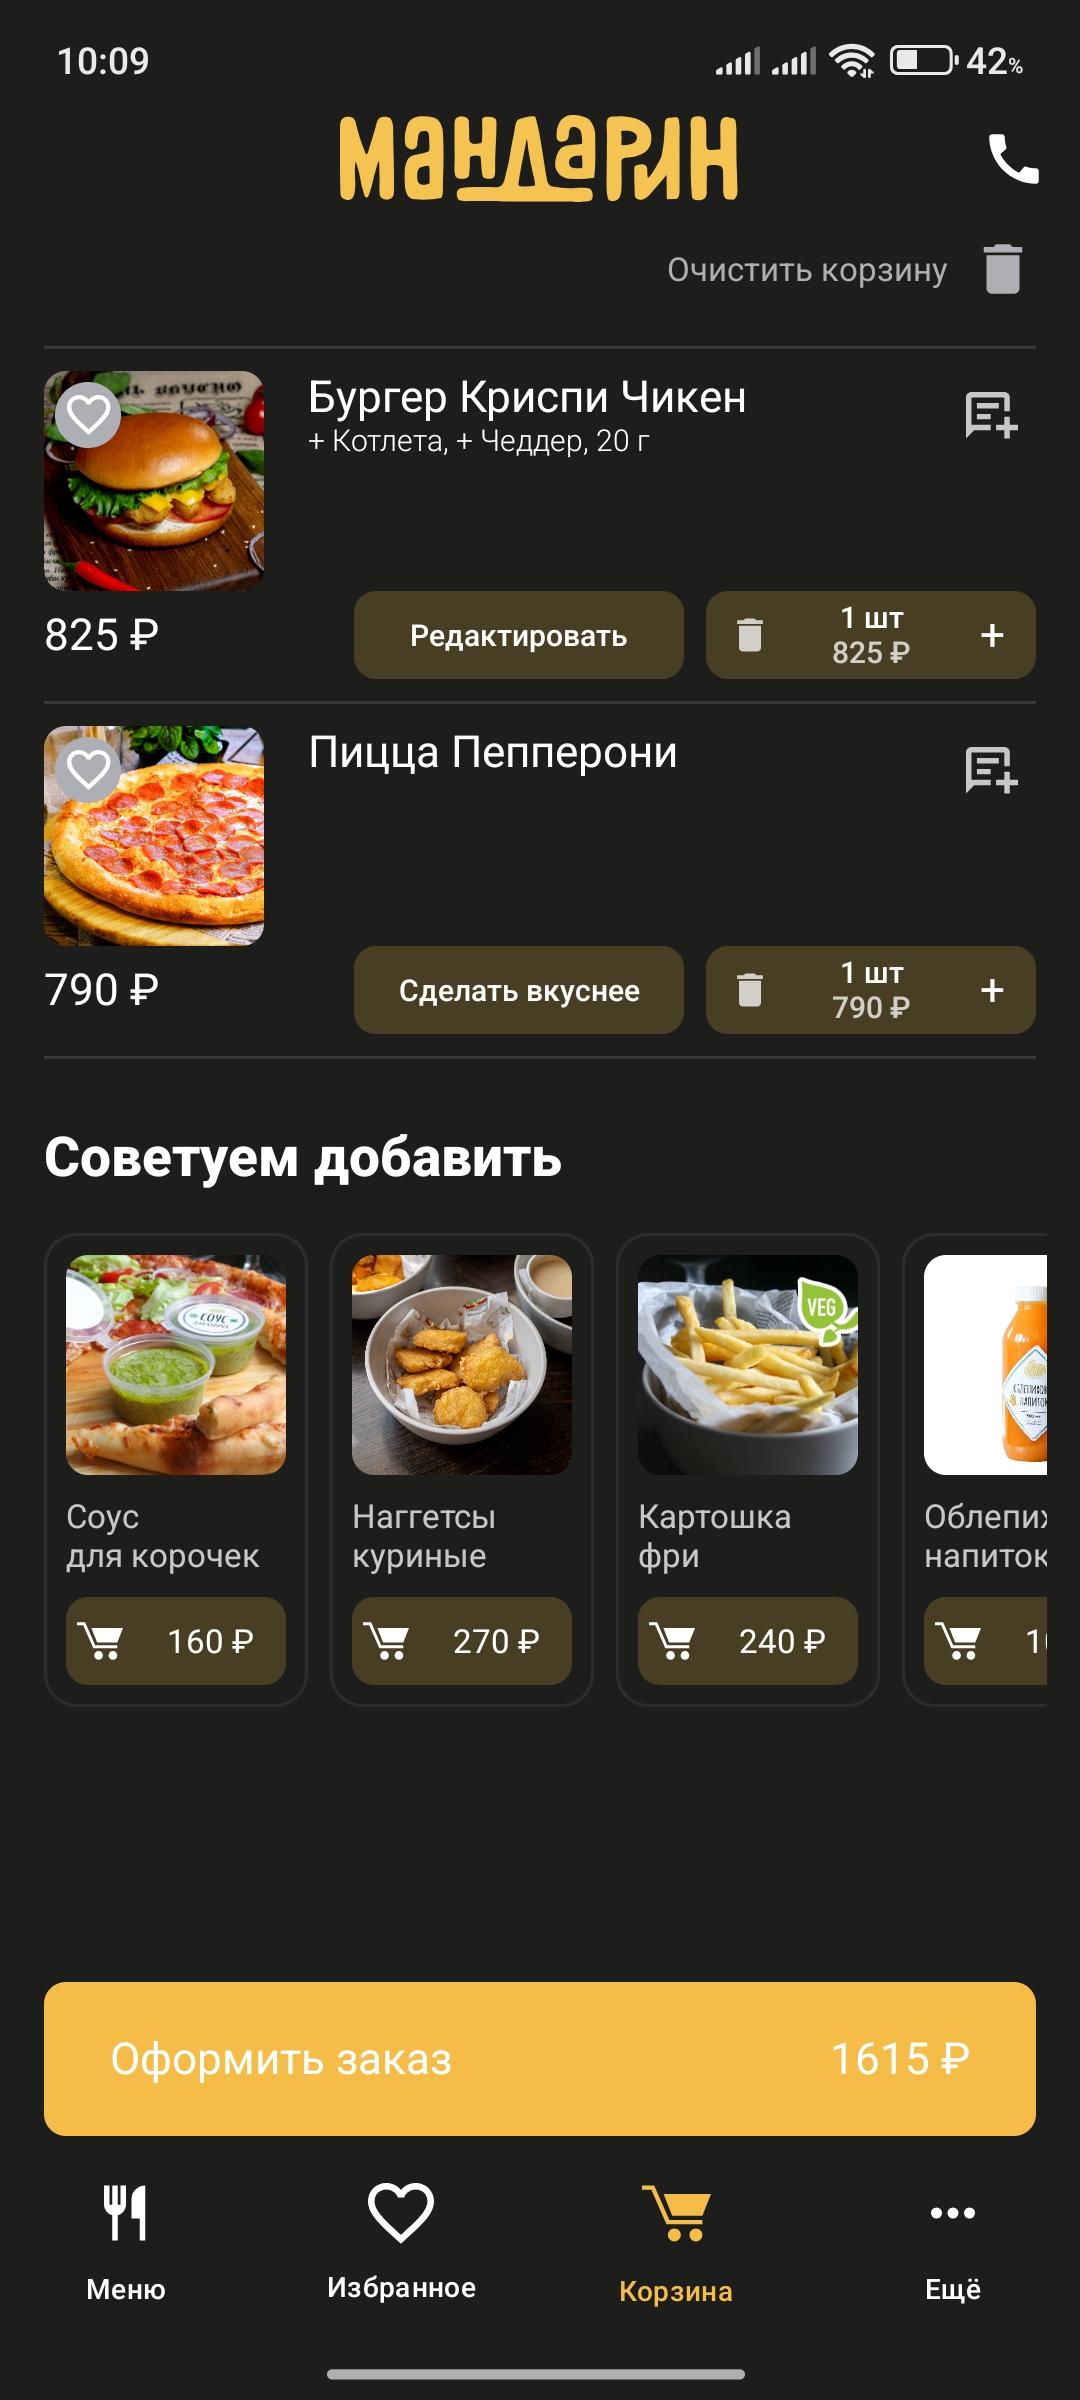
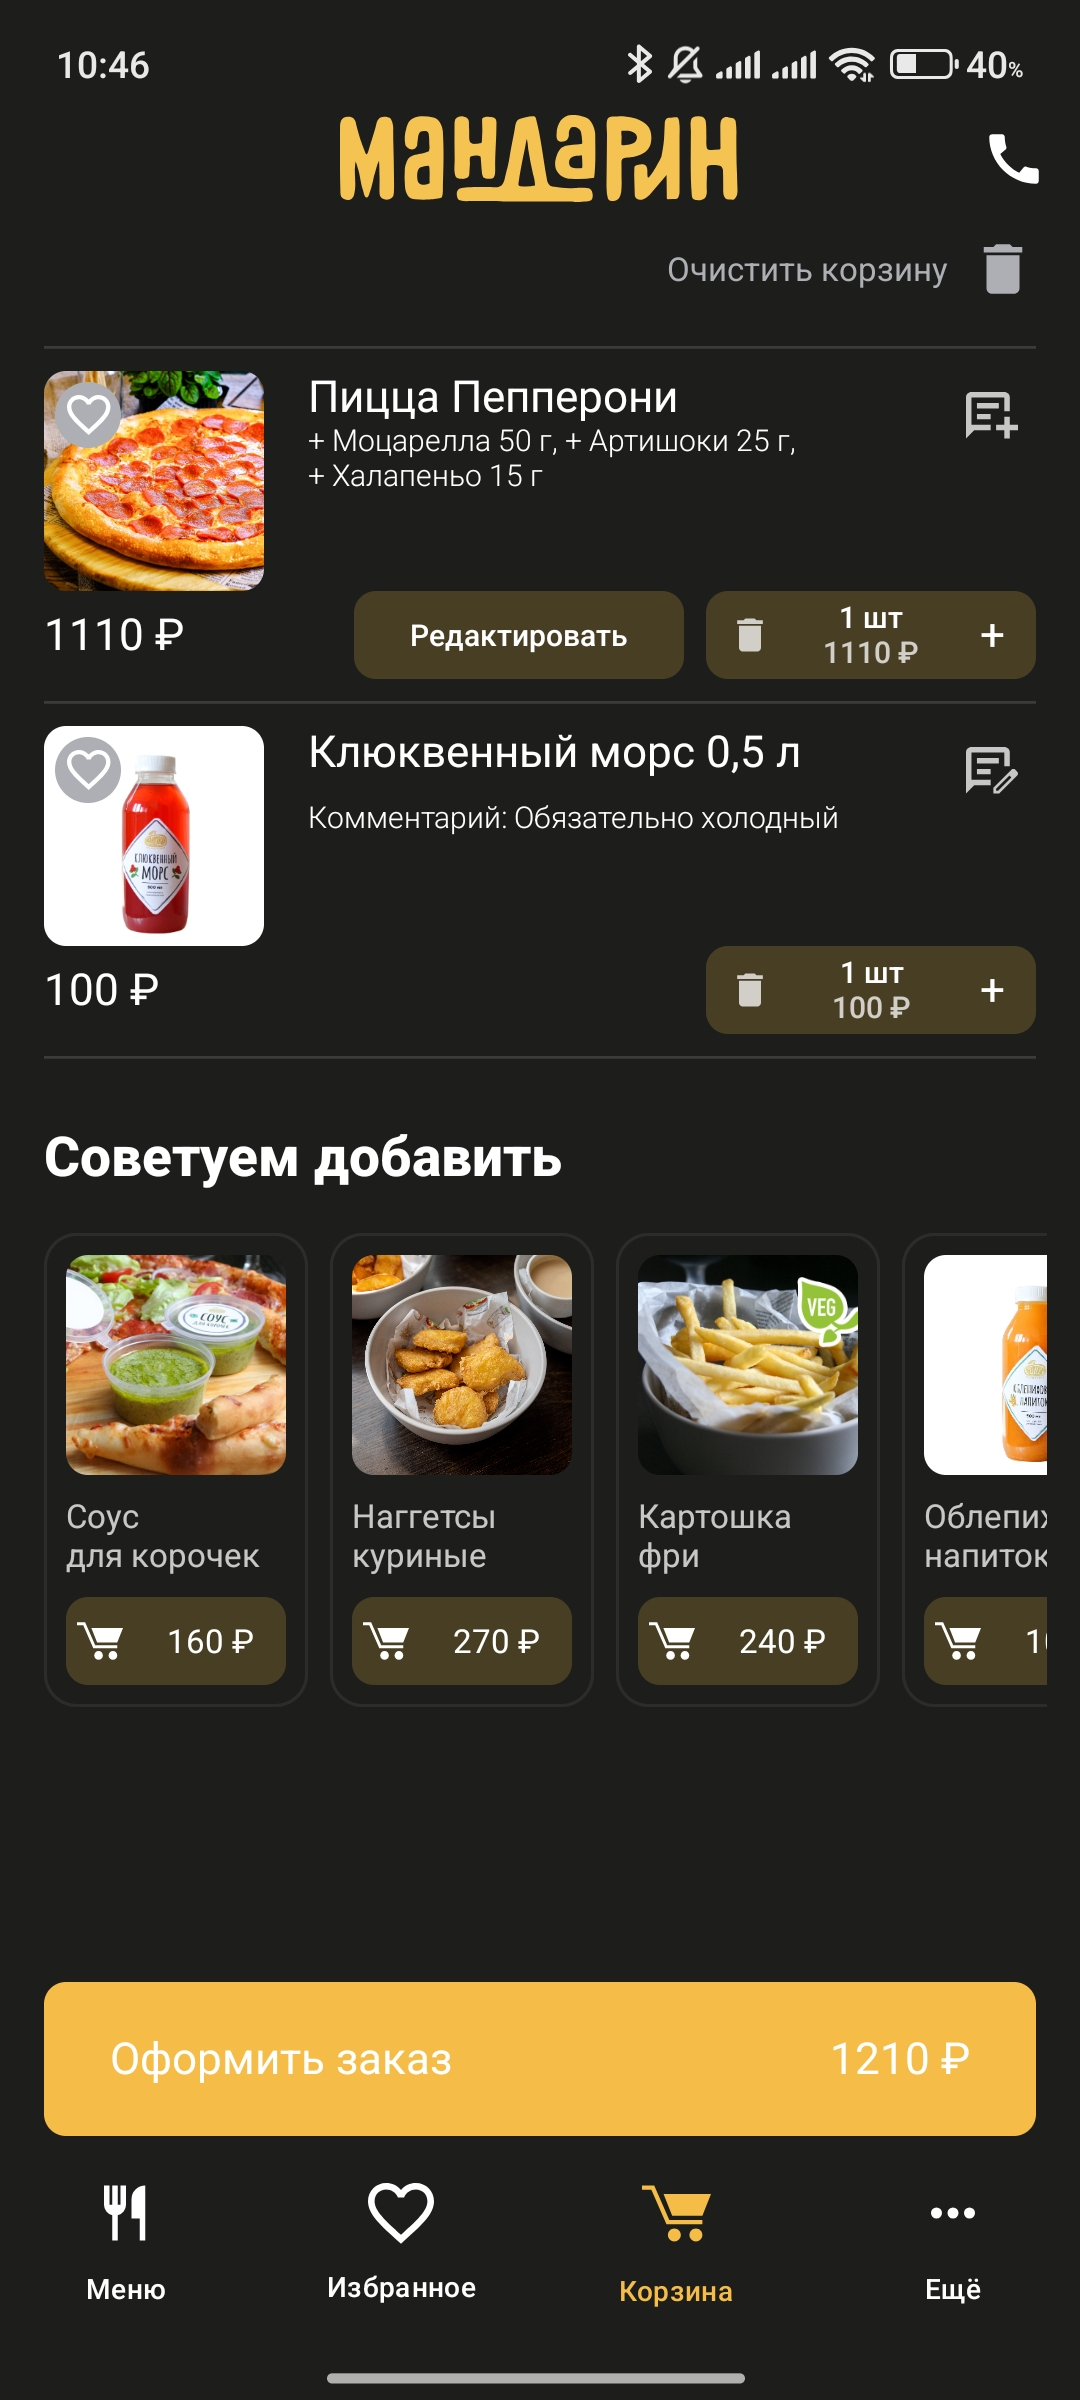
Добавлен блок рекомендаций для суши/роллов/кимпабов

diff --git a/app/src/main/java/com/mandarinkafe/mandarin/features/cart/domain/impl/GetRecommendsUseCaseImpl.kt b/app/src/main/java/com/mandarinkafe/mandarin/features/cart/domain/impl/GetRecommendsUseCaseImpl.kt
@@ -5,6 +5,7 @@ import com.mandarinkafe.mandarin.core.domain.models.Meal
 import com.mandarinkafe.mandarin.features.cart.domain.api.RecommendsSchemaRepository
 import com.mandarinkafe.mandarin.features.cart.domain.model.RecommendsSchemaRule
 import com.mandarinkafe.mandarin.features.cart.domain.usecase.GetRecommendsUseCase
+import com.mandarinkafe.mandarin.features.cart.presentation.viewmodel.Recommends
 import com.mandarinkafe.mandarin.util.Resource
 import com.mandarinkafe.mandarin.util.Resource.ErrorEmptyData
 import com.mandarinkafe.mandarin.util.Resource.ErrorNoInternet
@@ -18,7 +19,7 @@ class GetRecommendsUseCaseImpl(
     private val schemaRepository: RecommendsSchemaRepository,
     private val menuCache: MenuCache,
 ) : GetRecommendsUseCase {
-    override suspend fun invoke(cartItems: Set<Meal>): Resource<List<Meal>> {
+    override suspend fun invoke(cartItems: Set<Meal>): Resource<Recommends> {
         val schemaResult = schemaRepository.getRecommendsSchema()
 
         return when (schemaResult) {
@@ -31,10 +32,13 @@ class GetRecommendsUseCaseImpl(
                 val rules = schemaResult.data ?: return ErrorEmptyData()
 
                 val cartItemsWithNorm = normalizeCartItems(cartItems)
+                // ids элементов в корзине
+                val inCartIds = cartItems.map { it.id }.toSet()
 
                 val (globalRules, normalRules) = rules.partition { it.sourceName == SOURCE_ALL }
-
                 val matchingRules = filterRules(normalRules, cartItemsWithNorm)
+
+                val separateRules = rules.filter { it.isSeparate }
 
                 // Сначала обычные, потом глобальные
                 val recommendedSkus = (matchingRules + globalRules)
@@ -46,14 +50,24 @@ class GetRecommendsUseCaseImpl(
                     .flatMap { sku -> menuCache.getMealsBySku(sku) }
                     .distinctBy { it.id }
 
-                // ids элементов в корзине
-                val inCartIds = cartItems.map { it.id }.toSet()
+                val matchingSeparateRules = filterRules(separateRules, cartItemsWithNorm)
 
-                // фильтруем те блюда, что уже в корзине
-                val filtered = meals
+                val separateSkus = matchingSeparateRules
+                    .flatMap { it.recommendedSku }
+                    .map { it.trim() }
+                    .filter { it.isNotEmpty() }
+
+                val separateMeals = separateSkus
+                    .flatMap { sku -> menuCache.getMealsBySku(sku) }
+                    .distinctBy { it.id }
                     .filterNot { it.id in inCartIds }
 
-                Success(filtered)
+                // фильтруем те блюда, что уже в корзине и что попали в отдельные
+                val filtered = meals
+                    .filterNot { it.id in inCartIds }
+                    .filterNot { meal -> separateMeals.any { it.id == meal.id } }
+
+                Success(Recommends(mainRecommends = filtered, separateRecommends = separateMeals))
             }
         }
     }

diff --git a/app/src/main/java/com/mandarinkafe/mandarin/features/cart/presentation/screen/CartContentScreen.kt b/app/src/main/java/com/mandarinkafe/mandarin/features/cart/presentation/screen/CartContentScreen.kt
@@ -32,6 +32,7 @@ import com.mandarinkafe.mandarin.features.cart.presentation.components.ProcessOr
 import com.mandarinkafe.mandarin.features.cart.presentation.viewmodel.CartContract.CartState
 import com.mandarinkafe.mandarin.util.Constants.ANIMATION_DURATION_FAST
 import com.mandarinkafe.mandarin.util.presentation.ui.components.MyCircularProgressIndicator
+import com.mandarinkafe.mandarin.util.presentation.ui.components.TooltipText
 
 @Composable
 fun CartContentScreen(
@@ -102,7 +103,7 @@ fun CartContentScreen(
                 }
 
                 // Заголовок рекомендаций
-                if (state.recommends.isNotEmpty()) {
+                if (state.recommends.mainRecommends.isNotEmpty()) {
                     item {
                         Text(
                             modifier = Modifier.padding(
@@ -130,12 +131,29 @@ fun CartContentScreen(
                         }
                     } else {
                         CartRecommendsList(
-                            recommendsList = state.recommends,
+                            recommendsList = state.recommends.mainRecommends,
                             modifier = Modifier.padding(bottom = Dimens.MarginStandard16),
                             onAddToCart = { onAddToCart(it.toCartItem()) },
                             onMealDetailsClick = { onMealDetailsClick(it.toCartItem()) },
                         )
                     }
+                }
+
+                // Сообщение про соевый соус и тд
+                if (state.recommends.separateRecommends.isNotEmpty()) {
+                    item {
+                        TooltipText(
+                            modifier = Modifier.padding(Dimens.MarginSmall8),
+                            textRes = R.string.sushi_soy_souse_tooltip
+                        )
+                        CartRecommendsList(
+                            recommendsList = state.recommends.separateRecommends,
+                            modifier = Modifier.padding(bottom = Dimens.MarginStandard16),
+                            onAddToCart = { onAddToCart(it.toCartItem()) },
+                            onMealDetailsClick = { onMealDetailsClick(it.toCartItem()) },
+                        )
+                    }
+
                 }
 
                 // Отступ для кнопки "Оформить заказ"

diff --git a/app/src/main/java/com/mandarinkafe/mandarin/features/cart/data/impl/RecommendsSchemaRepositoryImpl.kt b/app/src/main/java/com/mandarinkafe/mandarin/features/cart/data/impl/RecommendsSchemaRepositoryImpl.kt
@@ -38,9 +38,10 @@ class RecommendsSchemaRepositoryImpl(private val networkClient: GoogleDocsNetwor
     private fun parseCsv(csv: String): List<RecommendsSchemaDto> {
         return csv
             .lineSequence()
-            .drop(1) // пропустить заголовок
+            .drop(1) // пропускаем заголовок
             .mapNotNull { line ->
                 val parts = line.split(",")
+
                 if (parts.size < CSV_COLUMNS_NUMBER) return@mapNotNull null
 
                 val sourceName = parts[0].takeIf { it.isNotBlank() }
@@ -57,21 +58,23 @@ class RecommendsSchemaRepositoryImpl(private val networkClient: GoogleDocsNetwor
                     ?.map { it.trim() }
                     ?.filter { it.isNotEmpty() }
 
-                // Не создаём DTO, если вообще нет исходных данных или сопутствующих товаров
+                val isSeparate = parts[3].trim().equals("TRUE", ignoreCase = true)
+
+                // Не создаём DTO, если нет исходного или нет рекомендуемых товаров
                 if (sourceName == null) return@mapNotNull null
                 if (recommendedSku.isNullOrEmpty()) return@mapNotNull null
 
                 RecommendsSchemaDto(
                     sourceName = sourceName,
                     excludeSku = excludeSku,
-                    recommendedSku = recommendedSku
+                    recommendedSku = recommendedSku,
+                    isSeparate = isSeparate
                 )
             }
             .toList()
-
     }
 
     companion object {
-        private const val CSV_COLUMNS_NUMBER = 3
+        private const val CSV_COLUMNS_NUMBER = 4
     }
 }

diff --git a/app/src/main/java/com/mandarinkafe/mandarin/features/cart/presentation/viewmodel/CartContract.kt b/app/src/main/java/com/mandarinkafe/mandarin/features/cart/presentation/viewmodel/CartContract.kt
@@ -16,6 +16,7 @@ sealed interface CartContract {
             val item: CartItem? = null,
             val customizedMeal: CustomizedMeal? = null
         ) : CartEvent
+
         data class AddCommentToItem(val item: CartItem, val comment: String) : CartEvent
         data class UpdateMealInCart(val newItem: CartItem) : CartEvent
         data class OnReduceWithDelay(val item: CartItem) : CartEvent
@@ -24,6 +25,7 @@ sealed interface CartContract {
             val customizedMeal: CustomizedMeal? = null,
             val meal: Meal? = null
         ) : CartEvent
+
         data object ForceRefresh : CartEvent
 
         // Очистка корзины
@@ -46,7 +48,7 @@ sealed interface CartContract {
         val error: UiError? = null,
         val cartItems: List<CartItem> = emptyList(),
         val favoritesItems: Set<CustomizedMeal> = emptySet(),
-        val recommends: List<Meal> = emptyList(),
+        val recommends: Recommends = Recommends(),
         val recommendsAreLoading: Boolean = true,
         val pendingDeletionItems: List<String> = emptyList(),
         val inProgressItems: Set<String> = emptySet(),

diff --git a/app/src/main/java/com/mandarinkafe/mandarin/features/cart/presentation/viewmodel/CartViewModel.kt b/app/src/main/java/com/mandarinkafe/mandarin/features/cart/presentation/viewmodel/CartViewModel.kt
@@ -296,13 +296,9 @@ class CartViewModel @Inject constructor(
         cartItems?.let {
             val resource = recommendsUseCase(cartItems)
             setRecommendsLoading(resource is Loading)
-            val filteredRecommends =
-                when (resource) {
-                    is Resource.Success -> resource.data ?: emptyList()
-                    else -> emptyList()
-                }
+            val recommends = resource.data ?: Recommends()
             setState {
-                copy(recommends = filteredRecommends)
+                copy(recommends = recommends)
             }
         }
     }
@@ -314,7 +310,7 @@ class CartViewModel @Inject constructor(
                     cartItems = data,
                     error = null,
                     isLoading = false,
-                    inProgressItems = emptySet()
+                    inProgressItems = emptySet(),
                 )
             }
         }

diff --git a/app/src/main/java/com/mandarinkafe/mandarin/features/cart/domain/usecase/GetRecommendsUseCase.kt b/app/src/main/java/com/mandarinkafe/mandarin/features/cart/domain/usecase/GetRecommendsUseCase.kt
@@ -1,8 +1,9 @@
 package com.mandarinkafe.mandarin.features.cart.domain.usecase
 
 import com.mandarinkafe.mandarin.core.domain.models.Meal
+import com.mandarinkafe.mandarin.features.cart.presentation.viewmodel.Recommends
 import com.mandarinkafe.mandarin.util.Resource
 
 interface GetRecommendsUseCase {
-    suspend operator fun invoke(cartItems: Set<Meal>): Resource<List<Meal>>
+    suspend operator fun invoke(cartItems: Set<Meal>): Resource<Recommends>
 }

diff --git a/app/src/main/java/com/mandarinkafe/mandarin/features/cart/data/CartMapper.kt b/app/src/main/java/com/mandarinkafe/mandarin/features/cart/data/CartMapper.kt
@@ -71,6 +71,7 @@ object CartMapper {
     fun RecommendsSchemaDto.toDomain() = RecommendsSchemaRule(
         sourceName = sourceName ?: "",
         excludeSku = excludeSku ?: emptyList<String>(),
-        recommendedSku = recommendedSku ?: emptyList()
+        recommendedSku = recommendedSku ?: emptyList(),
+        isSeparate = isSeparate
     )
 }

diff --git a/app/src/main/java/com/mandarinkafe/mandarin/features/cart/domain/model/RecommendsSchemaRule.kt b/app/src/main/java/com/mandarinkafe/mandarin/features/cart/domain/model/RecommendsSchemaRule.kt
@@ -3,5 +3,6 @@ package com.mandarinkafe.mandarin.features.cart.domain.model
 data class RecommendsSchemaRule(
     val sourceName: String,
     val excludeSku: List<String>,
-    val recommendedSku: List<String>
+    val recommendedSku: List<String>,
+    val isSeparate: Boolean = false
 )

diff --git a/app/src/main/java/com/mandarinkafe/mandarin/features/cart/data/dto/RecommendsSchemaDto.kt b/app/src/main/java/com/mandarinkafe/mandarin/features/cart/data/dto/RecommendsSchemaDto.kt
@@ -3,5 +3,6 @@ package com.mandarinkafe.mandarin.features.cart.data.dto
 data class RecommendsSchemaDto(
     val sourceName: String?,
     val excludeSku: List<String>?,
-    val recommendedSku: List<String>?
+    val recommendedSku: List<String>?,
+    val isSeparate: Boolean = false
 )

diff --git a/app/src/main/java/com/mandarinkafe/mandarin/features/cart/presentation/viewmodel/Recommends.kt b/app/src/main/java/com/mandarinkafe/mandarin/features/cart/presentation/viewmodel/Recommends.kt
@@ -1,0 +1,8 @@
+package com.mandarinkafe.mandarin.features.cart.presentation.viewmodel
+
+import com.mandarinkafe.mandarin.core.domain.models.Meal
+
+data class Recommends(
+    val mainRecommends: List<Meal> = emptyList(),
+    val separateRecommends: List<Meal> = emptyList()
+)

diff --git a/app/src/main/java/com/mandarinkafe/mandarin/features/cart/di/CartModule.kt b/app/src/main/java/com/mandarinkafe/mandarin/features/cart/di/CartModule.kt
@@ -88,4 +88,5 @@ object CartModule {
             repository = cartWriter
         )
     }
+
 }
